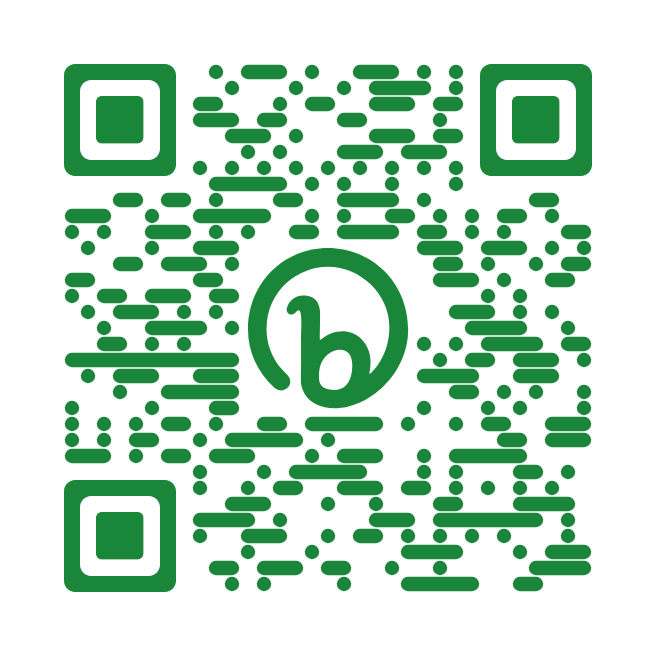
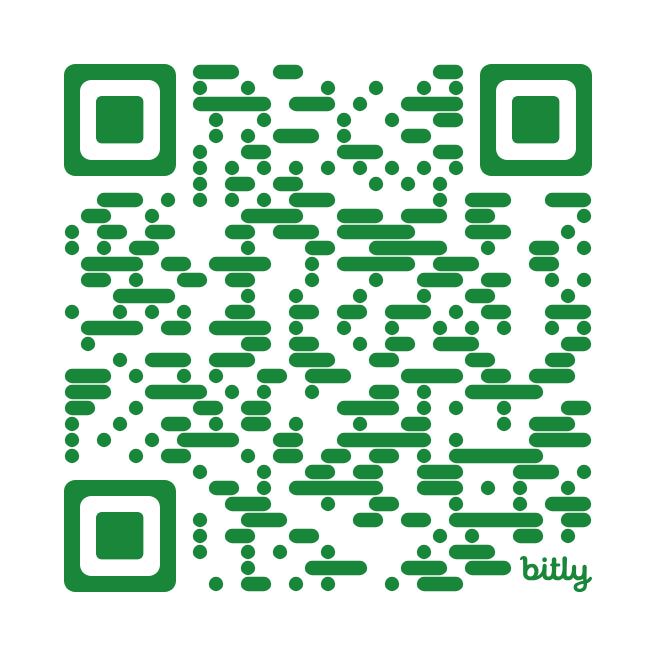
Updated AR QR and Link

Changed region(s): [[0.0915, 0.0915, 0.9146, 0.9146]]

diff --git a/main/templates/ARRoute.html b/main/templates/ARRoute.html
@@ -92,7 +92,7 @@
 						<div class="AR-card ">
 							<h2>Download Our AR Route Application</h2>
 							<br>
-							<p><a href="{% static 'arapk/goClimbAr.apk' %}" class="btn btn-secondary me-2">Download Here</a></p>
+							<p><a href="https://drive.google.com/file/d/1wtE-Zr58R8Z9-ziVhbZfbXCFWVWr2mOy/view?usp=drive_link" target="_blank" class="btn btn-secondary me-2">Download Here</a></p>
 
 							<img src="{% static 'images/bit.ly_GoClimbAr1.png' %}" style="width: 200px;" class="img-fluid" alt="QR Code">
 							<p>Simply scan this Qr Code</p>
